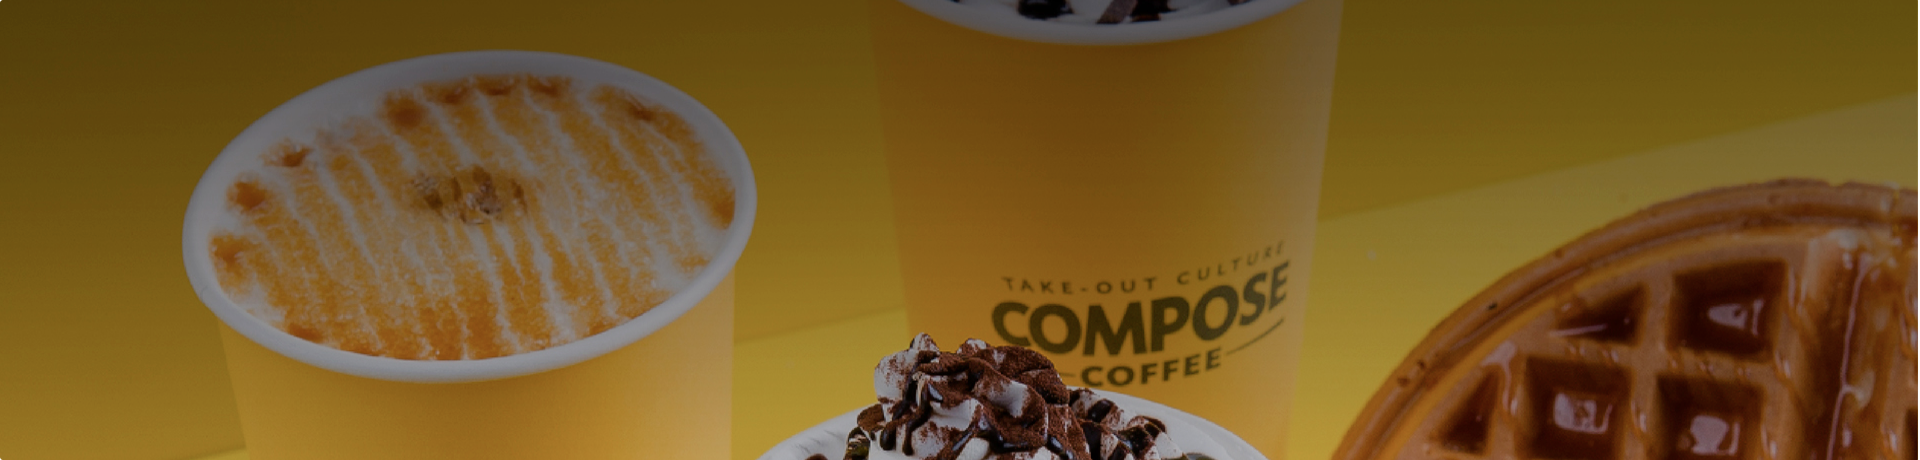
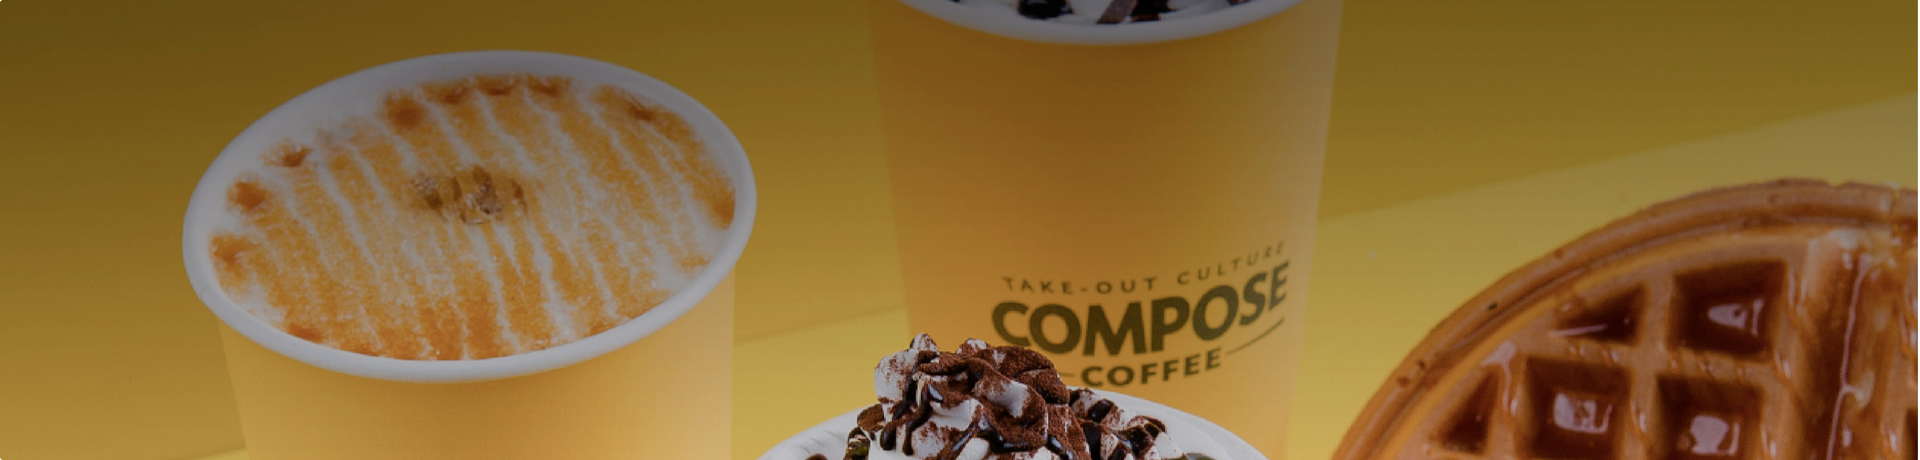
.
.

Changed region(s): [[0.2812, 0.6391, 0.5, 1.0], [0.5938, 0.6696, 0.75, 1.0], [0.0, 0.8217, 0.2188, 1.0]]

diff --git a/compoce pj/menu.css b/compoce pj/menu.css
@@ -8,7 +8,7 @@ body {
 .section1 {
     height: 430px;
     text-align: center;
-    background: url(assets/이디야.png) no-repeat;
+    background: url(assets/bg.png) no-repeat;
 }
 
 .section1>h1 {
